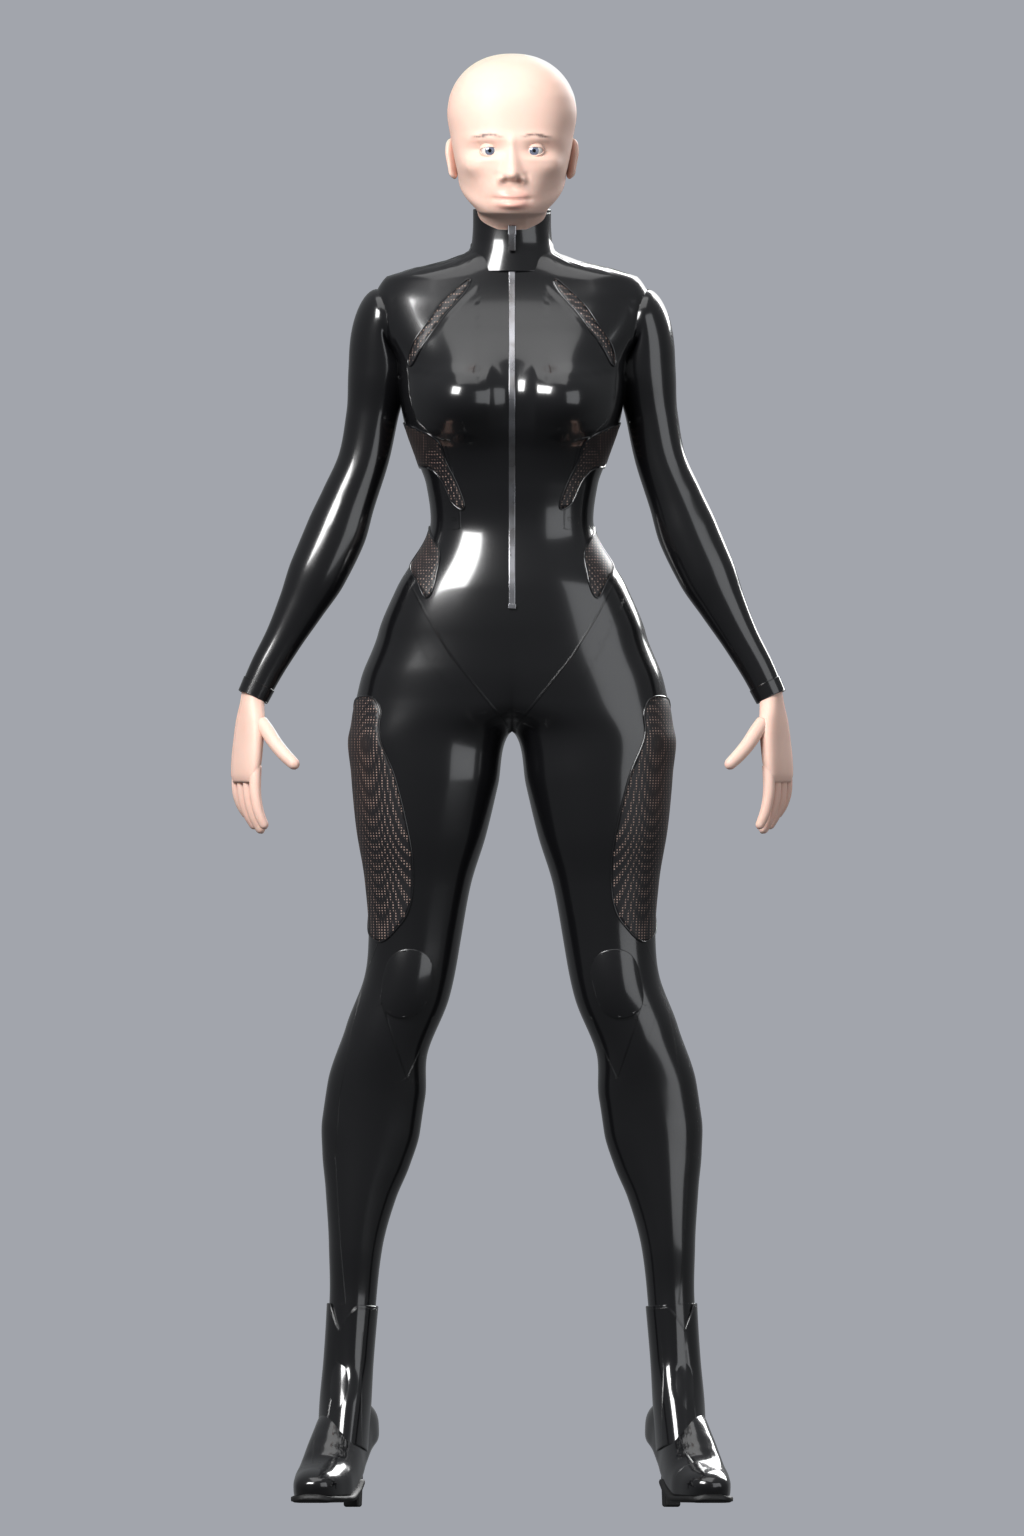
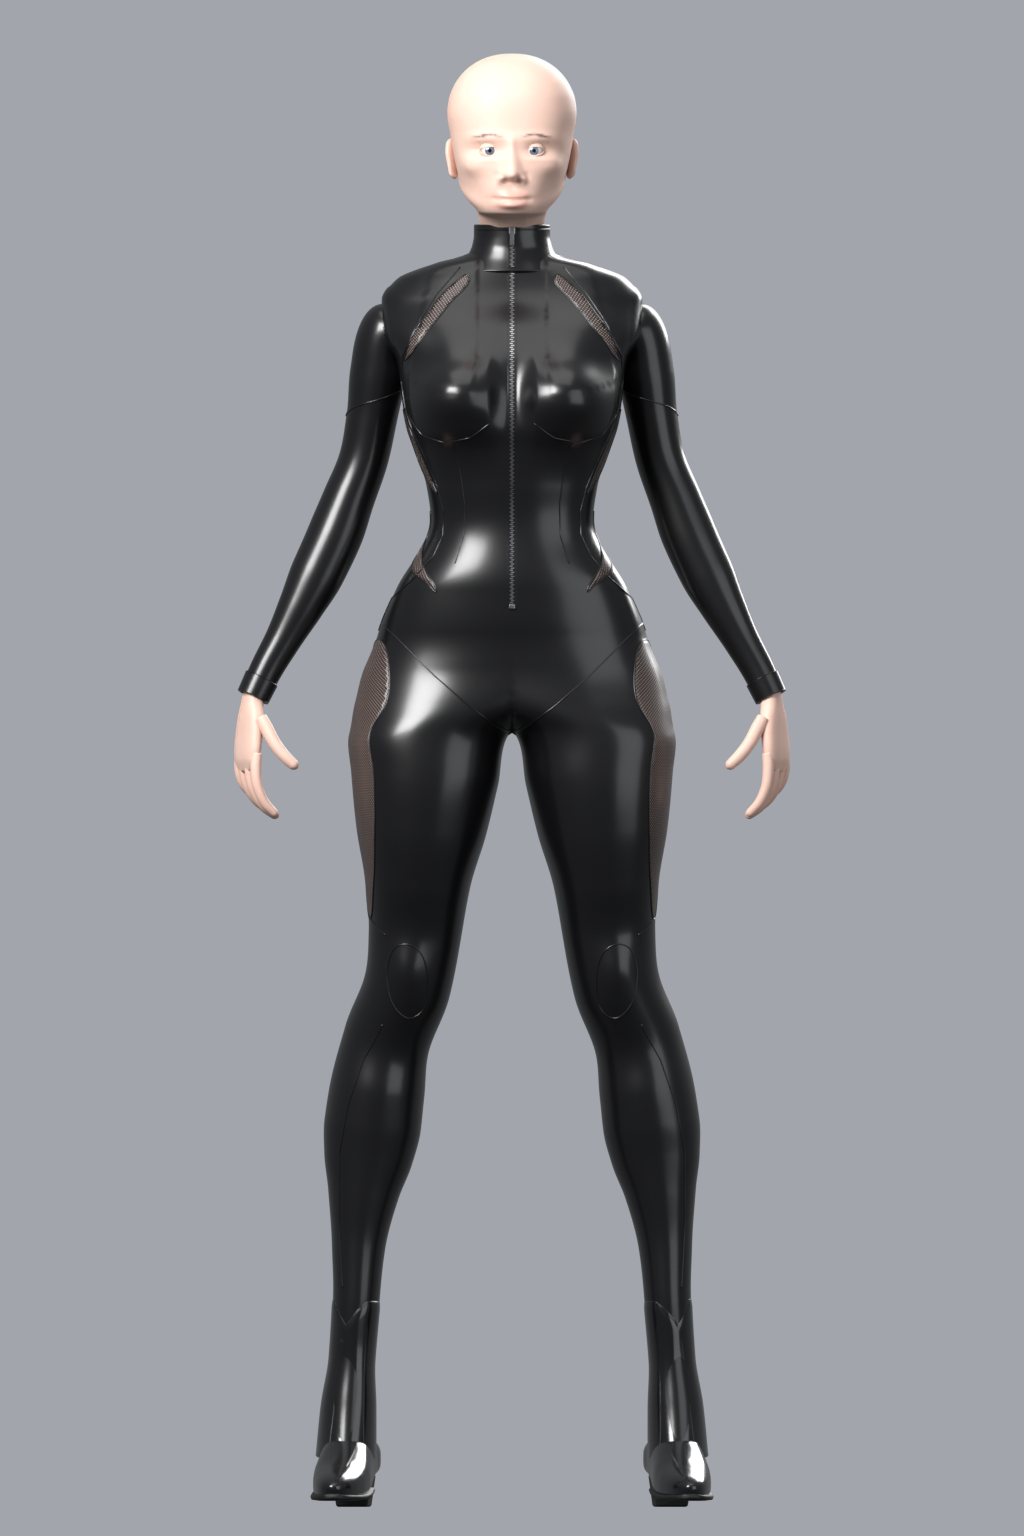
art(#33): Beatrice correction round -- renders, side/back comparisons, matte hip comparison, close-ups, provenance
Front 0.947/0.870/0.900, side 0.918/0.917/0.869, back 0.913/0.837/0.832 (above waist / waist-knee /
knees down); 62 parts, all closed.

diff --git a/art/characters/Beatrice/previews/index.html b/art/characters/Beatrice/previews/index.html
@@ -3,7 +3,7 @@
 <head>
 <meta charset="utf-8">
 <meta name="viewport" content="width=device-width, initial-scale=1">
-<title>Beatrice — stage 1 body and suit</title>
+<title>Beatrice — body and suit</title>
 <style>
   :root { color-scheme: dark; --bg: #1c1e22; --panel: #26292f; --ink: #e6e3dc; --dim: #9aa0a8; --line: #3a3e46; }
   body { margin: 0; background: var(--bg); color: var(--ink); font: 15px/1.5 system-ui, "Segoe UI", sans-serif; }
@@ -21,42 +21,58 @@
 </head>
 <body>
 <main>
-  <h1>Beatrice — stage 1: body, suit, hands, boots</h1>
+  <h1>Beatrice — body, suit, hands, boots (stage 2: correction round)</h1>
   <p>Built from Python alone on the shared character kit (<code>charkit/bodysuit.py</code>, Blender 4.5, Cycles) from the tables in
-     <code>scripts/beatrice.py</code>. The head is a bald placeholder for the face-and-hair stage. Character only, no props. See <code>PROVENANCE.md</code>.</p>
+     <code>scripts/beatrice.py</code>, now fitted to three drawings: front, side and back. The head is a bald placeholder for the
+     face-and-hair stage. Character only, no props. The stage-1 review this round answers: <code>review_stage1.md</code>. See <code>PROVENANCE.md</code>.</p>
 
-  <h2>Hip shape: concept vs front view</h2>
-  <p>Left to right: the original concept (scaled to the front view's shoulders, waist aligned), the front view, the default build
-     (hips, seat and thighs to the concept's proportions), the <code>sheet_hips</code> build (the front view's own hips and thighs).</p>
-  <figure><img src="shape_vs_concept.jpg" alt="Concept, front view, default build, sheet_hips build"><figcaption>concept · front view · default · sheet_hips</figcaption></figure>
+  <h2>Hip shapes, side by side</h2>
+  <p>Three shapes built from table values only, in a matte grey so the gloss hides nothing, front and side, waist to knee. The orange
+     line is the drawing's outline (front view above, side view below); the concept sits beside the front row. <code>default</code>
+     is the build: the concept's hip ratios, a moderate seat. <code>sheet_hips</code> is the three drawings' width and full seat.</p>
+  <figure><img src="shape_vs_concept.jpg" alt="Three hip shapes in matte grey, front and side, with the drawing outlines"><figcaption>one step slimmer · default · sheet_hips (the drawings)</figcaption></figure>
 
-  <h2>Front view vs model</h2>
-  <p>Silhouette IoU, default build: whole 0.913; above the waist 0.963, waist to knee 0.873 (narrower hips on purpose), knees down 0.924.
-     <code>sheet_hips</code>: whole 0.948; 0.963 / 0.949 / 0.924.</p>
-  <div class="pair">
-    <figure><img src="sheet_vs_reference.png" alt="Reference above the default build"><figcaption>Default build</figcaption></figure>
-    <figure><img src="sheet_hips_sheet_vs_reference.png" alt="Reference above the sheet_hips build"><figcaption>sheet_hips build</figcaption></figure>
+  <h2>The three drawings vs the model</h2>
+  <p>Silhouette overlap (IoU), default build, per height band (above the waist / waist to knee / knees down). Front 0.947 / 0.870 / 0.900;
+     side 0.918 / 0.917 / 0.869; back 0.913 / 0.837 / 0.832. The waist-to-knee band is narrower than the drawings on purpose
+     (<code>sheet_hips</code>: front 0.947, side 0.959, back 0.886). Knees down: the front and back drawings place the lower legs
+     1.8 cm apart and draw a high heel; the build splits the difference and wears the low heel asked for.</p>
+  <div class="grid">
+    <figure><img src="sheet_vs_reference.png" alt="Front drawing above the model"><figcaption>Front: drawing above, model below</figcaption></figure>
+    <figure><img src="side_vs_reference.png" alt="Side drawing above the model"><figcaption>Side</figcaption></figure>
+    <figure><img src="back_vs_reference.png" alt="Back drawing above the model"><figcaption>Back</figcaption></figure>
   </div>
-  <div class="pair">
-    <figure><img src="sheet_overlay.png" alt="Silhouette overlay, default"><figcaption>Overlay, default: grey both, red reference only, blue model only</figcaption></figure>
-    <figure><img src="sheet_hips_sheet_overlay.png" alt="Silhouette overlay, sheet_hips"><figcaption>Overlay, sheet_hips</figcaption></figure>
+  <div class="grid">
+    <figure><img src="sheet_overlay.png" alt="Front overlay"><figcaption>Front overlay: grey both, red drawing only, blue model only</figcaption></figure>
+    <figure><img src="side_overlay.png" alt="Side overlay"><figcaption>Side overlay</figcaption></figure>
+    <figure><img src="back_overlay.png" alt="Back overlay"><figcaption>Back overlay</figcaption></figure>
   </div>
 
   <h2>Turnaround</h2>
-  <figure><img src="turnaround.png" alt="Front, side, back, three-quarter"><figcaption>Orthographic front, side, back, three-quarter (side and back are invented: no reference)</figcaption></figure>
+  <figure><img src="turnaround.png" alt="Front, side, back, three-quarter"><figcaption>Orthographic front, side, back, three-quarter</figcaption></figure>
 
   <h2>Studio views</h2>
   <div class="grid">
     <figure><img src="hero.jpg" alt="Three-quarter front"><figcaption>Three-quarter front</figcaption></figure>
     <figure><img src="hero_back.jpg" alt="Three-quarter back"><figcaption>Three-quarter back</figcaption></figure>
     <figure><img src="side.jpg" alt="Side"><figcaption>Side</figcaption></figure>
-    <figure><img src="torso.jpg" alt="Torso"><figcaption>Torso</figcaption></figure>
-    <figure><img src="torso_back.jpg" alt="Torso, back"><figcaption>Torso, back</figcaption></figure>
+    <figure><img src="torso.jpg" alt="Torso"><figcaption>Torso: piping, shoulder slits, rib and waist crescents, toothed zip</figcaption></figure>
+    <figure><img src="torso_back.jpg" alt="Torso, back"><figcaption>Torso, back: zip down the spine, blade, rib and waist panels, the V seams</figcaption></figure>
     <figure><img src="legs.jpg" alt="Legs and boots"><figcaption>Legs and boots</figcaption></figure>
     <figure><img src="head.jpg" alt="Placeholder head"><figcaption>Placeholder head (replaced in the next stage)</figcaption></figure>
     <figure><img src="top.jpg" alt="From above"><figcaption>From above (the game camera)</figcaption></figure>
     <figure><img src="elevated.jpg" alt="Elevated"><figcaption>Elevated</figcaption></figure>
-    <figure><img src="crimson_hero.jpg" alt="Crimson variant"><figcaption>Variant <code>crimson</code>: palette values only (suit, boots, net, skin, brows, iris)</figcaption></figure>
+    <figure><img src="crimson_hero.jpg" alt="Crimson variant"><figcaption>Variant <code>crimson</code>: palette values only</figcaption></figure>
+  </div>
+
+  <h2>Close-ups</h2>
+  <div class="grid">
+    <figure><img src="shoulder.jpg" alt="Shoulder and collar"><figcaption>Shoulder, collar, zip pull</figcaption></figure>
+    <figure><img src="flank.jpg" alt="Flank"><figcaption>Flank: the panels set in the suit</figcaption></figure>
+    <figure><img src="flank_back.jpg" alt="Flank from behind"><figcaption>Flank from behind</figcaption></figure>
+    <figure><img src="knee.jpg" alt="Knees"><figcaption>Knee shields and shin seams</figcaption></figure>
+    <figure><img src="boot.jpg" alt="Boots"><figcaption>Ankle boots: low block heel, almond toe, V top</figcaption></figure>
+    <figure><img src="hand.jpg" alt="Hand"><figcaption>Hand and cuff</figcaption></figure>
   </div>
 </main>
 </body>

diff --git a/art/characters/Beatrice/PROVENANCE.md b/art/characters/Beatrice/PROVENANCE.md
@@ -1,4 +1,4 @@
-# Beatrice — scripted Blender model (Claude), stage 1
+# Beatrice — scripted Blender model (Claude), stages 1 and 2
 
 2026-10-04. Tracker: eriiiko/breach #33. Branch `33-beatrice`. Offline asset files only. This stage:
 body, bodysuit, hands and boots; the head is a bald placeholder (collection `Head`, objects
@@ -13,19 +13,25 @@ body, bodysuit, hands and boots; the head is a bald placeholder (collection `Hea
[1 lines of base64/hex data omitted]
   - `with_hair.png` — the same with hair (for the next stage). SHA-256
[1 lines of base64/hex data omitted]
+  - `without_hair_side.png` — side view, same pose (supplied after stage 1). SHA-256
[1 lines of base64/hex data omitted]
+  - `without_hair_back.png` — back view, same pose (supplied after stage 1). SHA-256
[1 lines of base64/hex data omitted]
 - Erik's steer: heights, limbs, shoulders, arms, torso above the waist, knees and below from the front
   view; hips, seat and thighs from the concept (the front view's are too wide); the front view's
-  full-length suit. 1.68 m to the top of the head, boots on. No side or back reference exists.
+  full-length suit. 1.68 m to the top of the head, boots on. Stage 2 (Erik): depths from the side view with the seat
+  and thigh taken in (a moderate seat), a LOW block heel of about 3 cm, the back from the back view.
 - No third-party geometry, textures or code.
 
 ## Reproduce
 
 Blender 4.5, bundled Python. From `art/characters/`:
 
-    bash charkit/run.sh Beatrice --sheet --turn --beauty all --save     # about 2.3 minutes
+    bash charkit/run.sh Beatrice --sheet --turn --beauty all --save     # about 2.6 minutes
     bash charkit/run.sh Beatrice --sheet --shape sheet_hips --save      # the front view's hips, about 15 s
     bash charkit/run.sh Beatrice --variant crimson --beauty hero         # about 20 s
-    bash charkit/run.sh Beatrice --compare                               # shape_vs_concept.jpg, about 30 s
+    bash charkit/run.sh Beatrice --compare                               # shape_vs_concept.jpg, about 1 min
+    bash charkit/run.sh Beatrice --beauty shoulder,flank,flank_back,knee,boot,hand   # close-ups, about 50 s
     bash charkit/run.sh Beatrice --draft --sheet                         # about 15 s, the working loop
 
 Outputs: `previews/` (tracked), `source/Beatrice.blend` (gitignored), `source/*mesh_stats.json`,
@@ -46,7 +52,30 @@ Outputs: `previews/` (tracked), `source/Beatrice.blend` (gitignored), `source/*m
 - Materials: `beatrice_suit`, `beatrice_mesh`, `beatrice_skin`, `beatrice_eye`, `beatrice_boot`,
   `beatrice_sole`, `beatrice_metal`.
 
-## Measured
+## Measured (stage 2)
+
+- Concept ratios against the default build: hip/shoulder 0.911 → 0.914 (+0.3 %), hip/waist 1.794 → 1.817 (+1.3 %),
+  thigh/hip 0.482 → 0.463 (−3.9 %).
+- Silhouette IoU, default build, bands above the waist / waist–knee / knees down: front 0.947 / 0.870 / 0.900 (whole 0.901);
+  side 0.918 / 0.917 / 0.869 (0.904); back 0.913 / 0.837 / 0.832 (0.859). `sheet_hips`: front 0.947 / 0.947 / 0.900,
+  side 0.918 / 0.959 / 0.869, back 0.913 / 0.886 / 0.832.
+- The front and back drawings disagree on where the lower legs stand (1.8 cm apart at the ankle); the leg centres split
+  the difference (front knees-down 0.937 → 0.900, back 0.783 → 0.832). All three draw a high heel; the build wears the
+  3 cm block heel.
+- `source/mesh_stats.json`: 62 objects, 405,437 source / 1,129,616 evaluated triangles; all 62 closed, none open.
+
+## Stage 2 construction (kit, additive)
+
+- `suitbuild`: further views (`sheet_ref.VIEWS`) scored per band with `<view>_vs_reference.png`; the hips comparison
+  (`tables.COMPARE`, `COMPARE_BAND`) in matte grey, front and side, outlines and labels drawn in Blender.
+- `bodysuit`: back-view feature points (`"bx"`); seams as piping cords (`seam_style="tube"`); mesh panels set in the suit
+  (`panel_rim="seam"`); toothed front and back zips with flat pulls (`zip.teeth`); a kneecap as a body form with a seam
+  loop (`knee_pad=None`); the boot shaft's top feathered into the leg (`boot.feather`); cuff height/lift from the table.
+- `garment.panel(surface_uv=)`, `wearmat.mat_mesh(surface=, coat=)`: the net laid in the panel's own coordinates (the
+  world-plane net cut curved panels in shimmering contour rings).
+- `parts.hand(thumb_dir=, fan=, knuckle=, finger_len=)`, passed through `workwear.build_hands`.
+
+## Stage 1 measures (superseded)
 
 - Concept (by hand, far-side half-widths from the midline, concept px): shoulder 305, waist 155, hip at
   the crotch 278, far thigh at the crotch 268 → hip/shoulder 0.911, hip/waist 1.794, thigh/hip 0.482.
@@ -59,5 +88,5 @@ Outputs: `previews/` (tracked), `source/Beatrice.blend` (gitignored), `source/*m
 
 ## Not done, and known weaknesses
 
-See the stage-1 report in issue #33. The face is the head function's default (doll-like); side and back
-are invented; the mesh inserts' net moirés at full-figure distance.
+The face is the head function's default (doll-like), for the next stage. See the stage-2 report for what still
+reads weak (hands, the boot's heel counter, the shoulder cap seam, the back drawing's leg stance).
